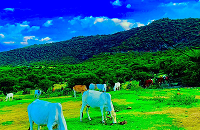
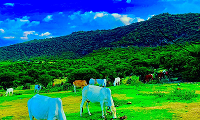
i updated my home town

diff --git a/index.html b/index.html
@@ -14,25 +14,36 @@
             <h2>Things to Discover in Godey</h2>
             <section class="activities">
             <div>
-            <img id="activity-image" src="../images/farms'sgodey.png" alt="Godey Farms">
+            <img class="card-image" id="activity-image" src="../images/farms'sgodey.png" alt="Godey Farms">
             <h6>Godey's Farms</h6>
             <p >Discover the farms along the Shabelle River, where irrigation supports farming and local communities.</p>
             </div>
             <div>
-            <img id="activity-image" src="../images/shabelle river at godey.png" alt="Shabelle River at Godey">
+            <img class="card-image" id="activity-image" src="../images/shabelle river at godey.png" alt="Shabelle River at Godey">
             <h6>Life Along the Shabelle</h6>
             <p id="discovery">Experience the beauty of the Shabelle River and the life connected to its waters.</p>
             </div>
             <div>
-                <img id="activity-image" src="../images/ogaden beauty landscape 1.png" alt="Ogaden Beauty Landscape">
-                <h6>Discover the Ogaden</h6>
-                <p id="discovery">Explore the beautiful landscapes, river plains and pastoral traditions of the Ogaden region.</p>
+            <img class="card-image" id="activity-image" src="../images/ogaden beauty landscape 1.png" alt="Ogaden Beauty Landscape">
+            <h6>Discover the Ogaden</h6>
+            <p id="discovery">Explore the beautiful landscapes, river plains and pastoral traditions of the Ogaden region.</p>
             </div>
             </div>
             </section>
             <section class="about-godey">
+            <h1>About Godey </h1>
+            <div class="about-section">
+            <div>
+            <img class="card-image" id="godey-town" src="../images/Godey Town Image.png" alt="godey town ">
+            </div>
+            <div>
+            <p>Godey is a beautiful town in the Somali Region of Ethiopia, known for the Shabelle River, fertile farmland, and the rich culture and traditions of its people. The town is part of the wider Ogaden region,
+             which is home to significant natural gas resources and has considerable oil and hydrocarbon potential.</p>
+            </div>
+            </div>
             </section>
-            <footer>
+             <footer>
+                <p>© 2026 Godey Homepage Discover • Explore • Experience Godey</p>
             </footer>
             </main>
         </body>

diff --git a/styls/styles.css b/styls/styles.css
@@ -1,7 +1,13 @@
 
 main {
     margin: 0px;
+    font-family: 'Franklin Gothic Medium', 
+    'Arial Narrow',
+     Arial, sans-serif;
     text-align: center;
+    border: 1px solid #173B5E;
+    border-radius: 20px;
+    background-color: bisque;
 }
 
 .hero {
@@ -18,7 +24,7 @@ justify-content: center;
     height: 480px;
     background-size: cover;
     background-position: center;
-    border: 2px solid #173B5E;
+    border: 0px solid #173B5E;
     border-radius: 20px;
 }
 
@@ -38,21 +44,21 @@ justify-content: center;
 .activities {
     margin-top: 30px;
     display: flex;
-    justify-content: space-between;
-    align-items: center;
-
+    flex-direction: row;
+    justify-content: center;
 }
 .activities-card {
     width: 720px;
-    height: 480px;
-    border: 2px solid #173B5E;
+    height: 350px;
+    border: 0px solid #173B5E;
     border-radius: 20px;
 }
 
 #activity-image {
-    width: 200px;
-    height: 130px;
-    border-radius: 10px;
+    width: 150px;
+    height: 90px;
+    border-radius: 12px;
+    object-fit: cover;
 }
 
 h2 {
@@ -69,4 +75,47 @@ h6 {
     font-size: 13px;
     font-weight: regular;
     color: #000000;
+}
+
+.about-godey {
+     width: 680px;
+    height: 300px;
+    border: 0px solid #173B5E;
+    border-radius: 20px;
+    margin:0px  auto;
+    padding: 30px;
+}
+
+.about-section {
+    display: flex;
+    flex-direction: row;
+    justify-content: center;
+    align-items: center;
+    margin: 0px auto;
+    gap: 30px;
+}
+
+#godey-town {
+    width: 250px;
+    height: 180px;
+    margin: 15px
+}
+
+h1 {
+    font-size: 24px;
+    font-weight: bold;
+    
+
+}
+
+p {
+    line-height: 20px;
+}
+
+.card-image {
+    transition: transform 0.3s;
+}
+
+.card-image:hover {
+    transform: scale(2.05);
 }
